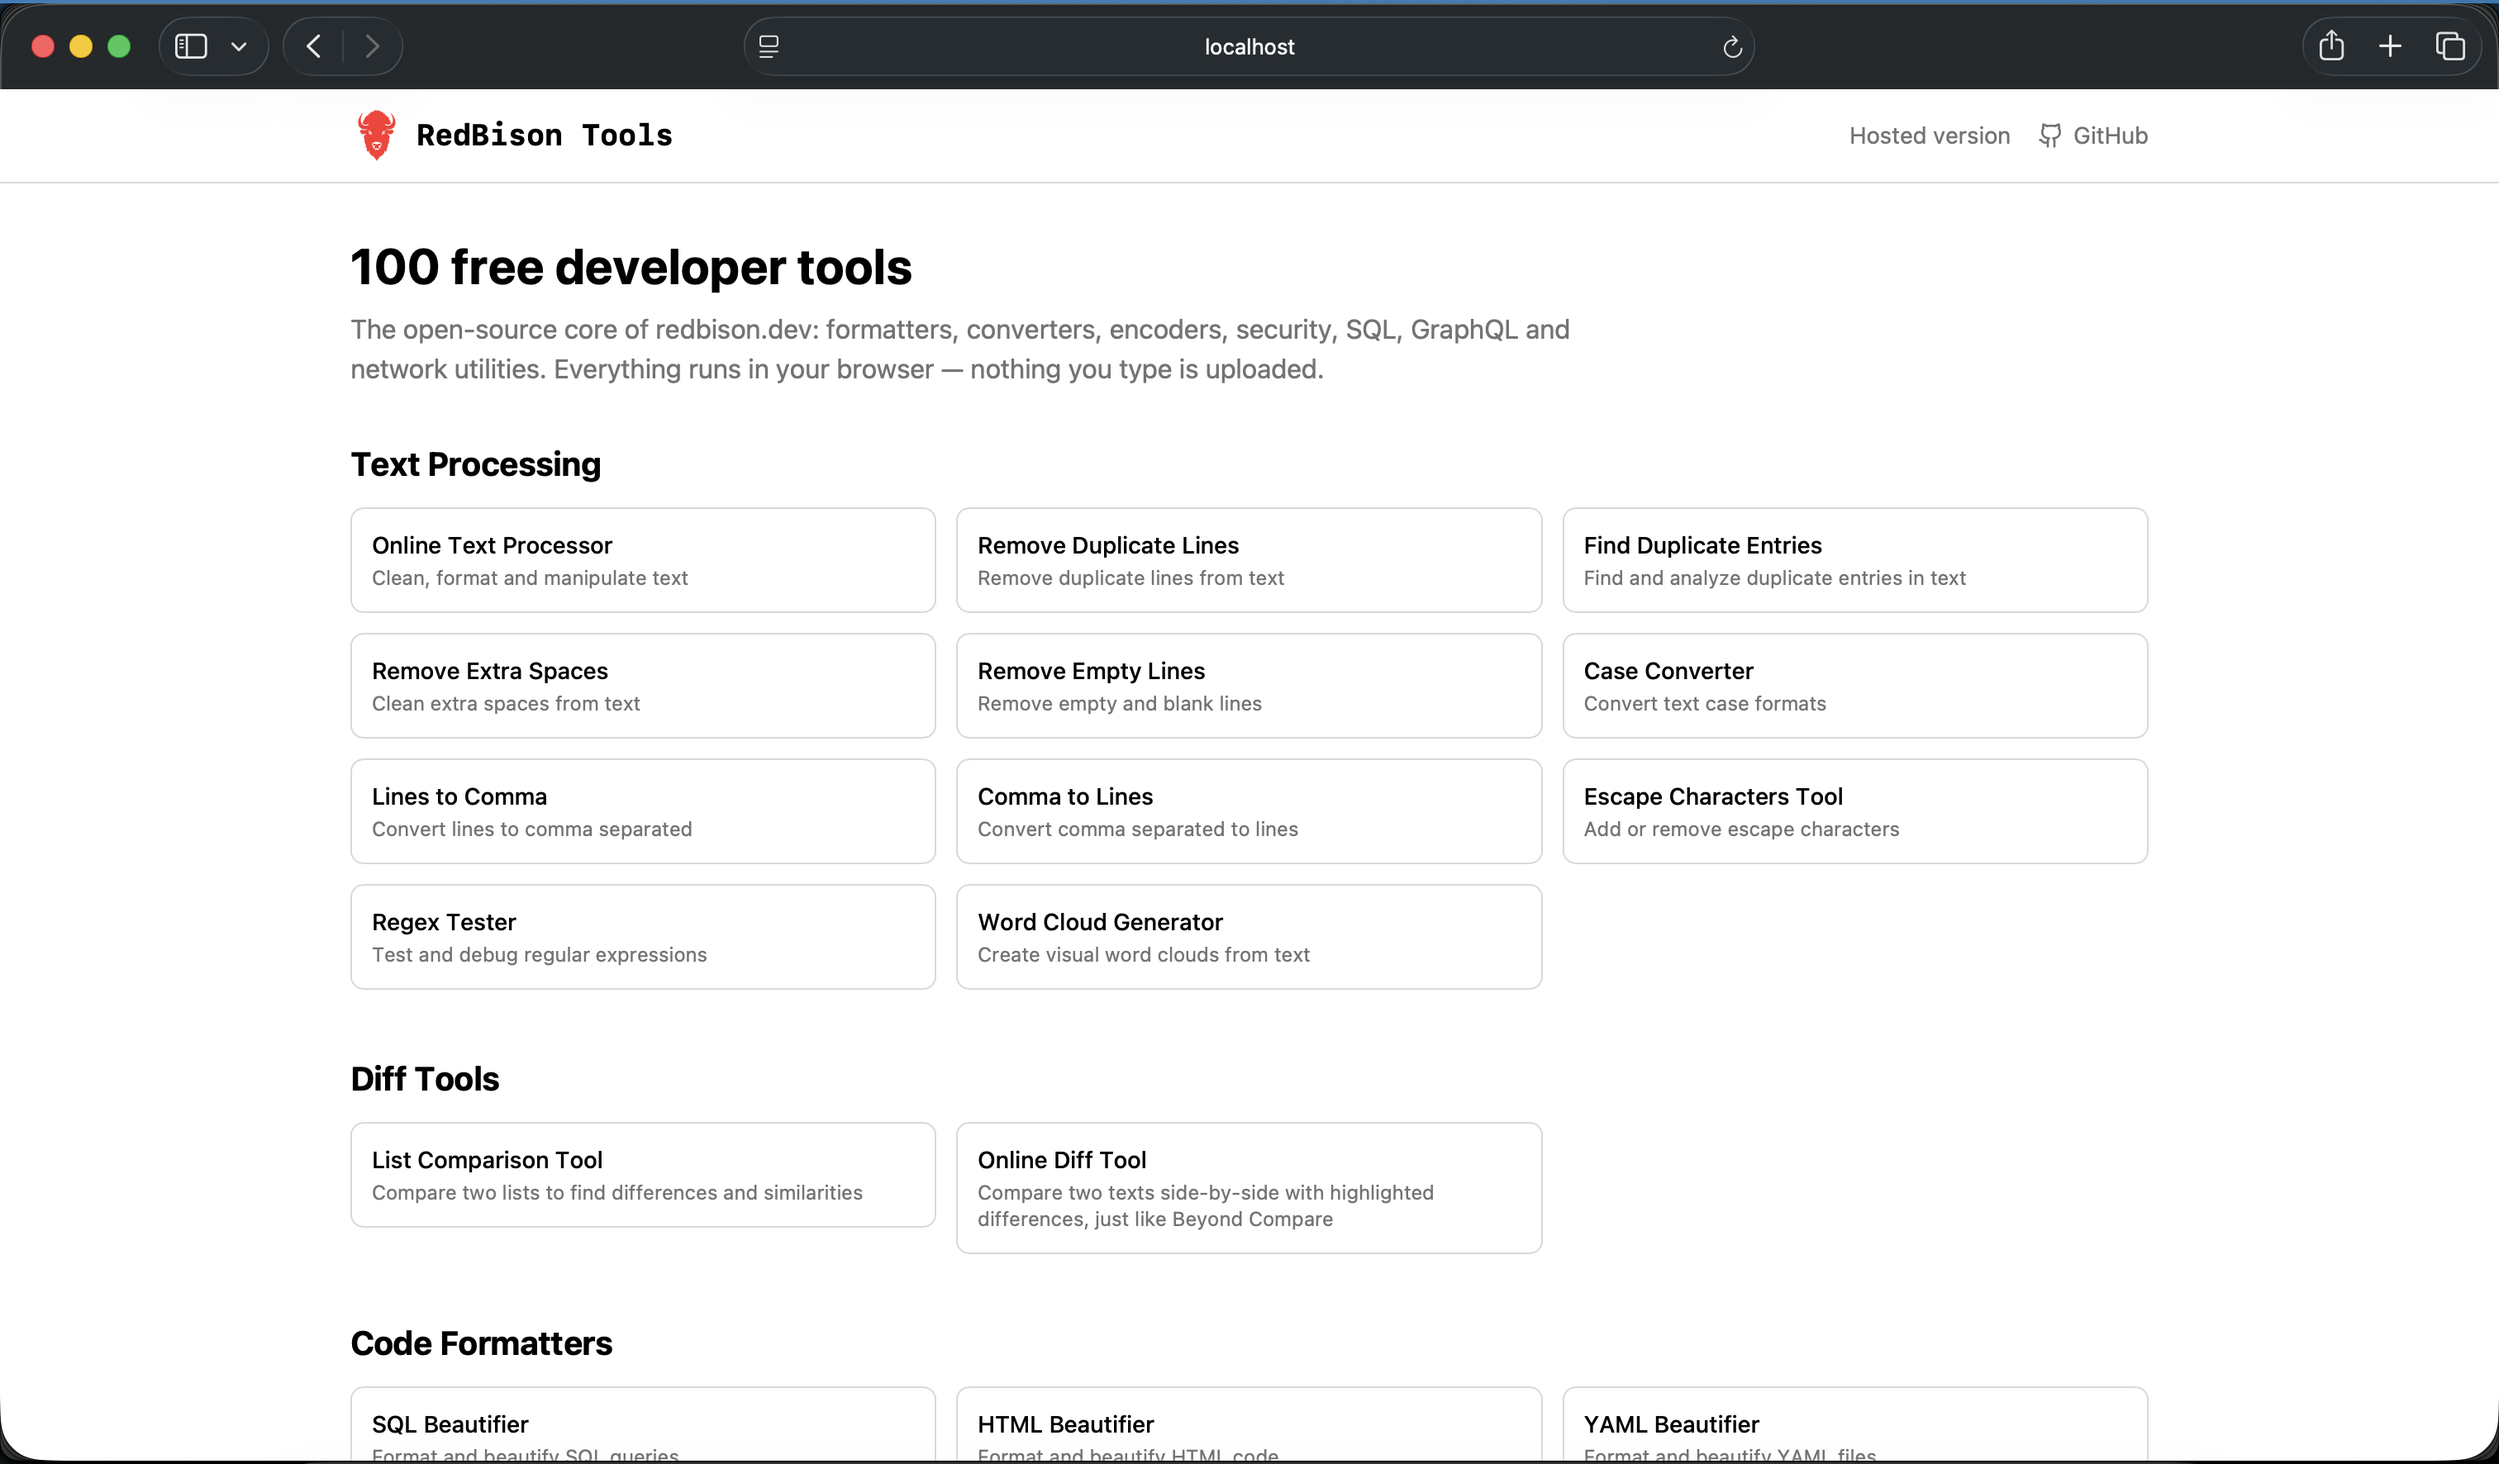
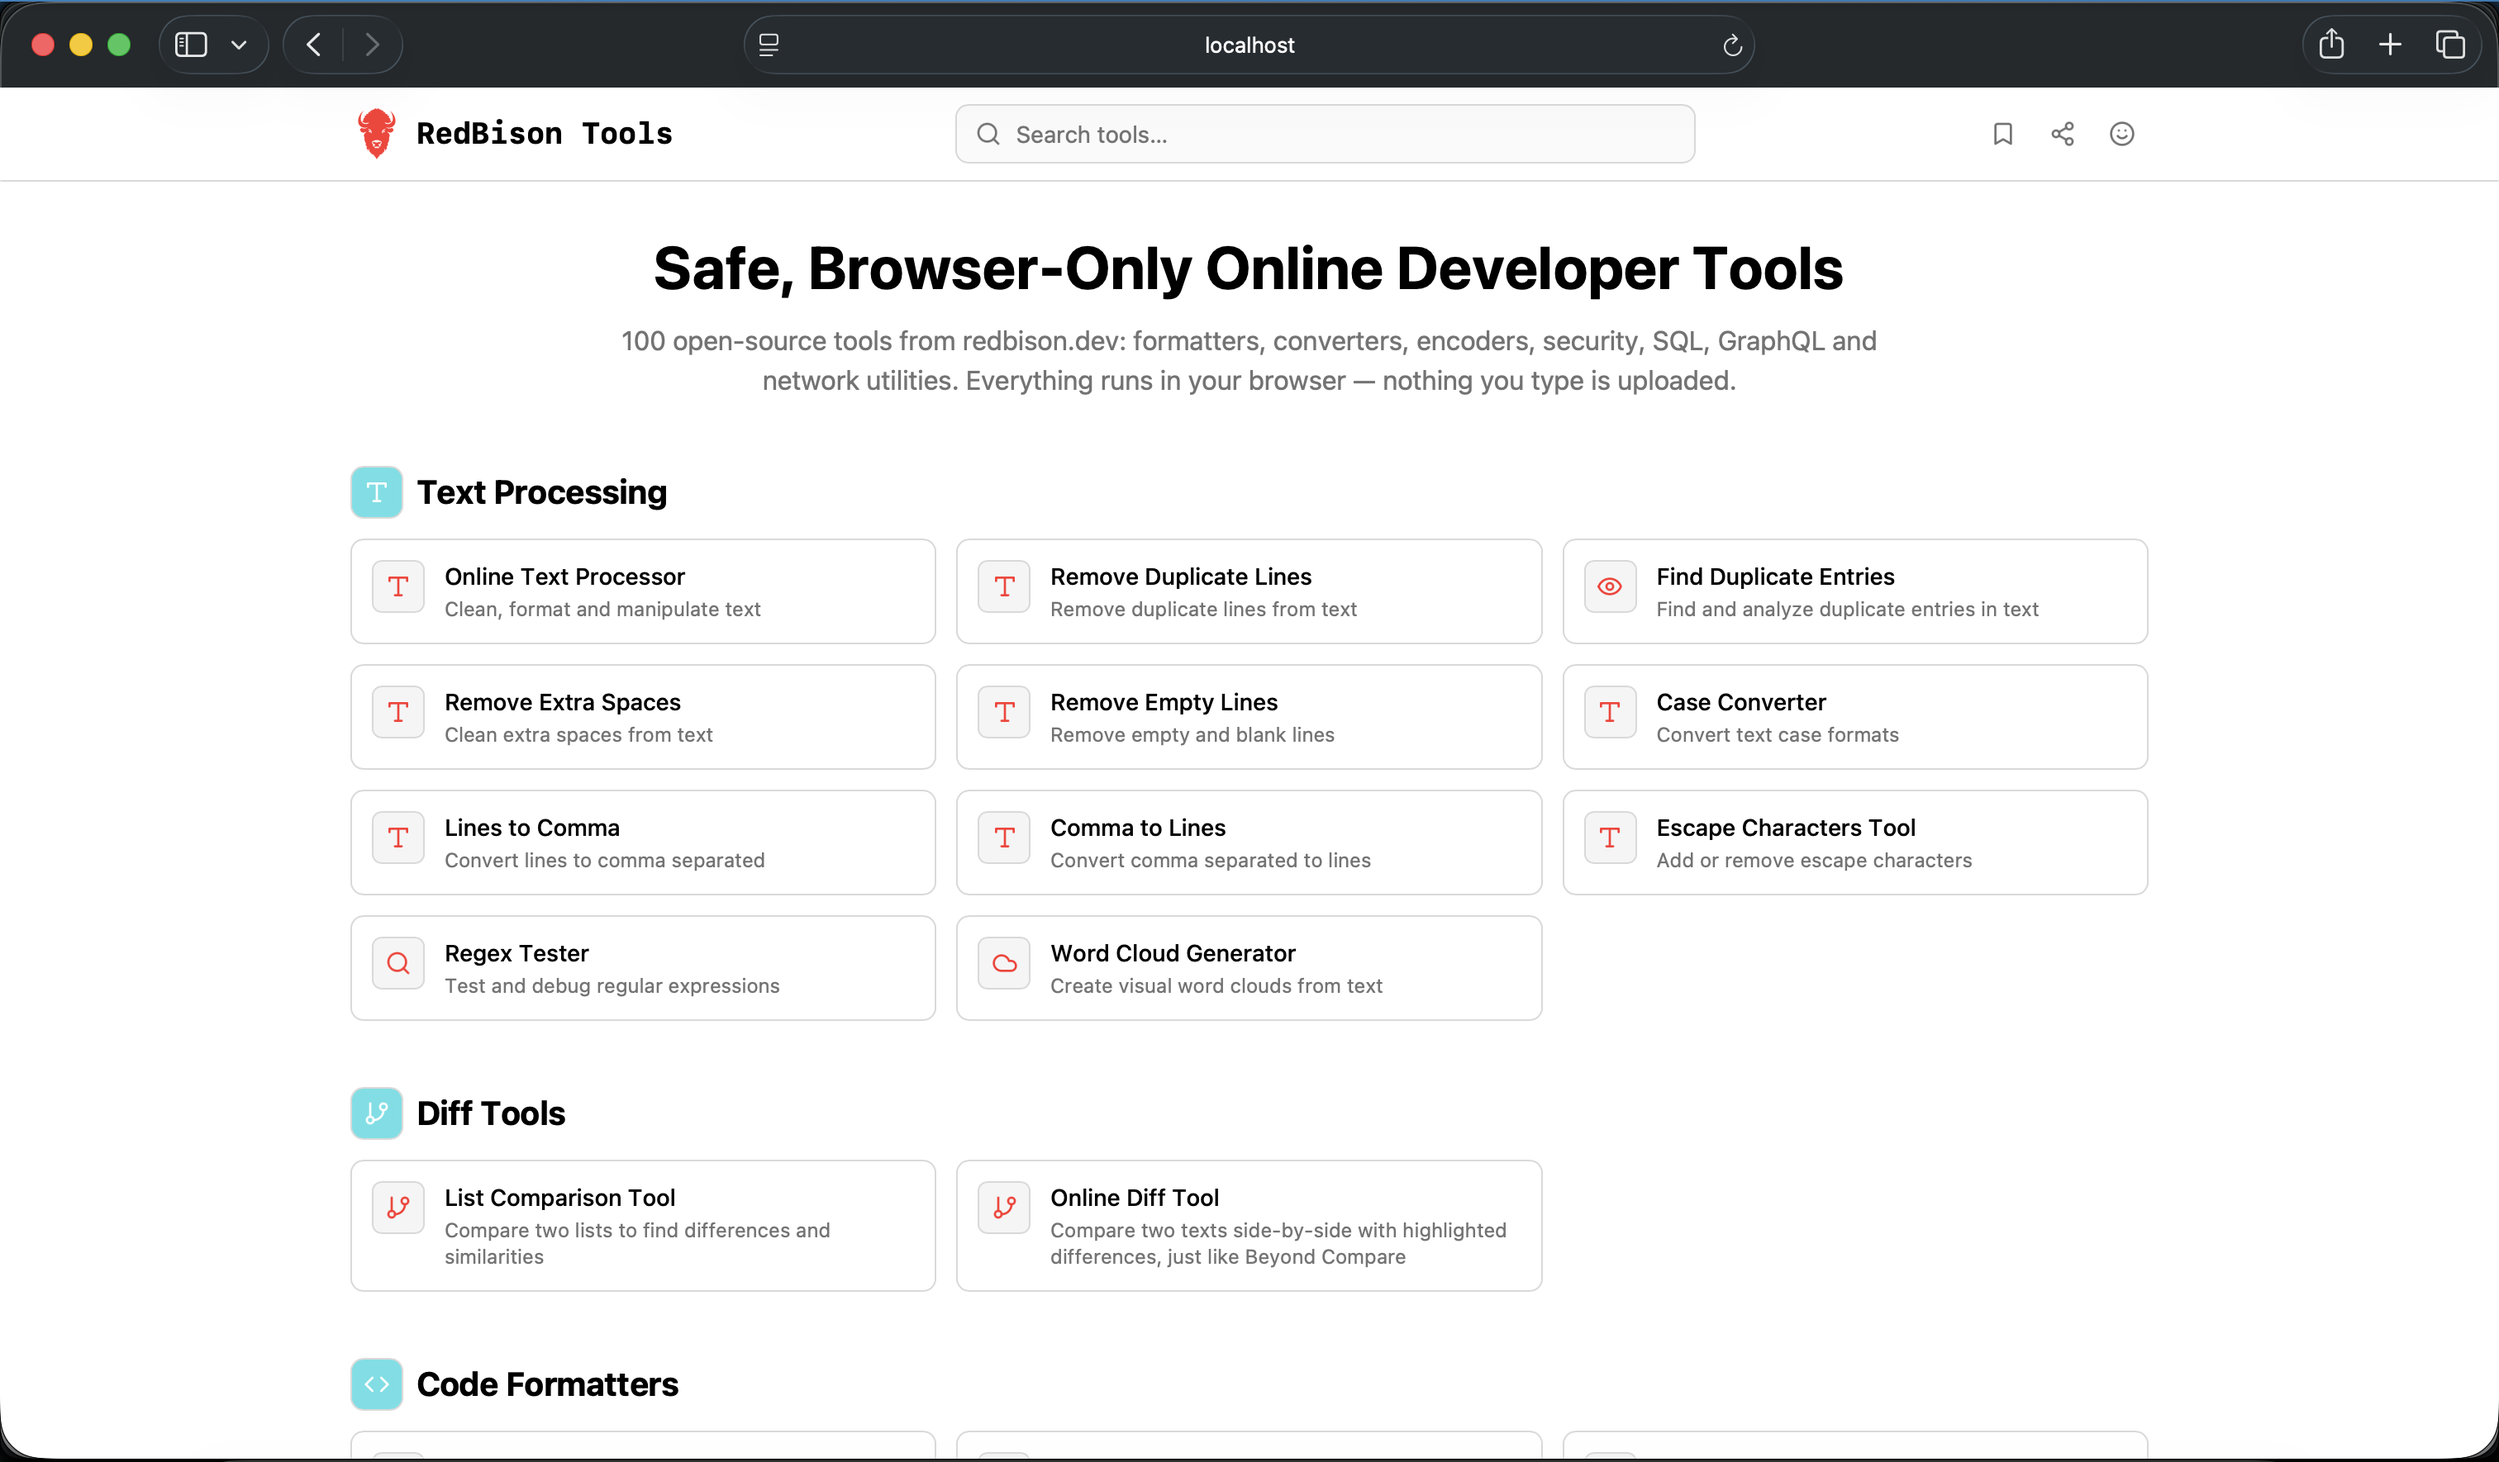
README: refresh the local-run screenshot
Shows the current home page: the 'Safe, Browser-Only Online Developer
Tools' heading, the tool search box, cyan category badges and red tool
icons. Metadata stripped, as before.

diff --git a/README.md b/README.md
@@ -8,7 +8,7 @@
 encoders, SQL, GraphQL, network utilities and more. This is the open-source core of
 [redbison.dev](https://redbison.dev).
 
-![RedBison Tools running locally: the home page listing the tools by category](docs/local-home.png)
+![RedBison Tools running locally: the home page headed "Safe, Browser-Only Online Developer Tools", with the tool search box, cyan category badges and the tools listed as cards with red icons](docs/local-home.png)
 
 ## What this repo is
 
